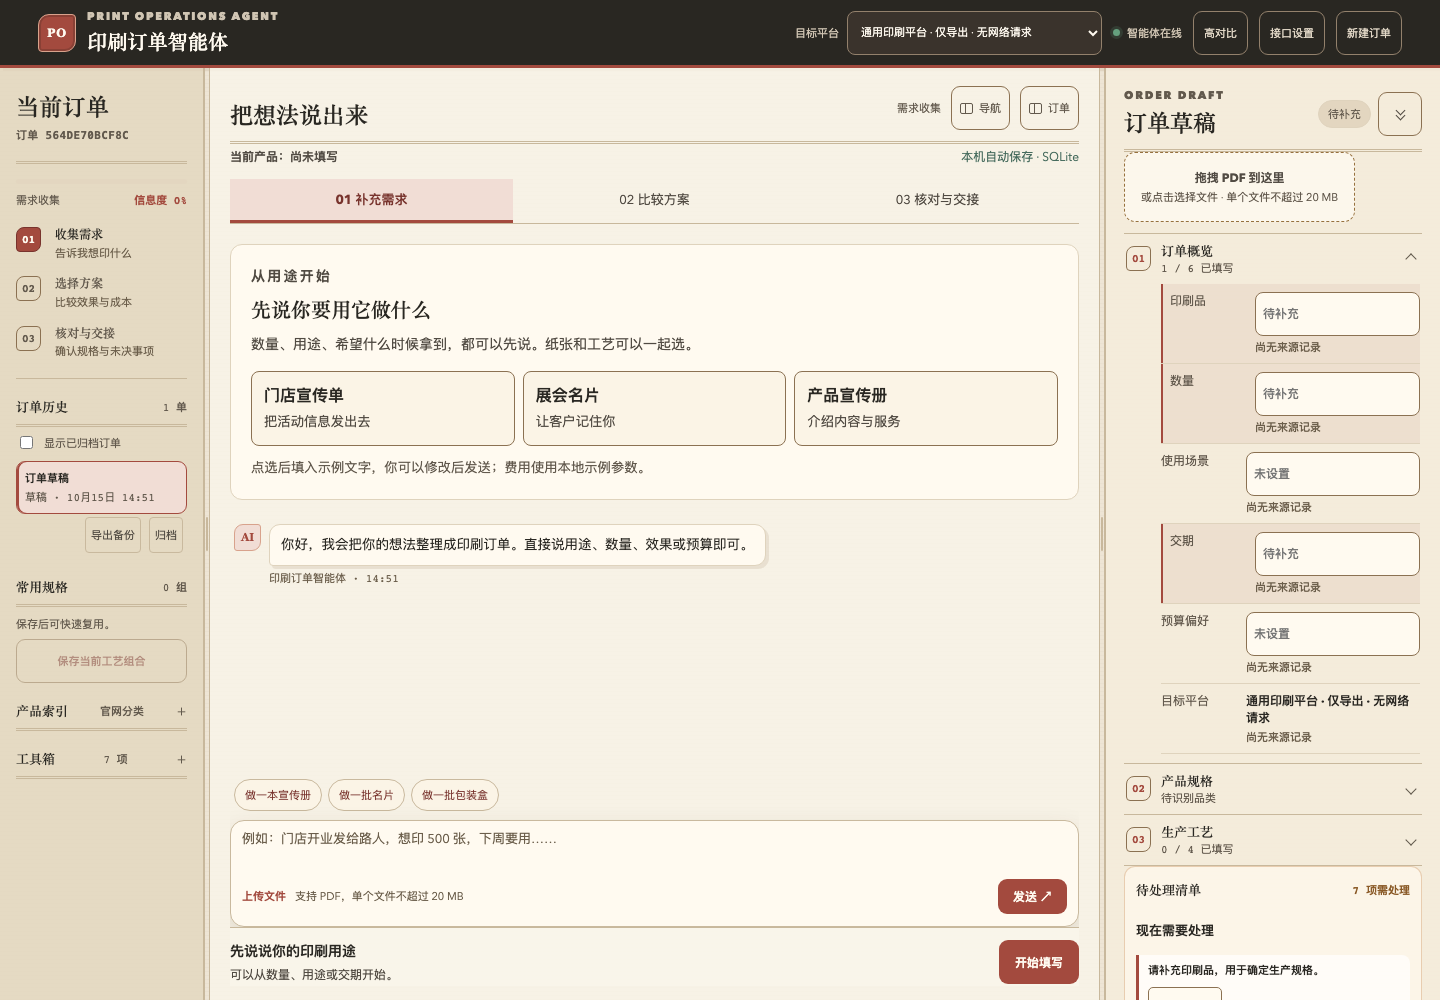
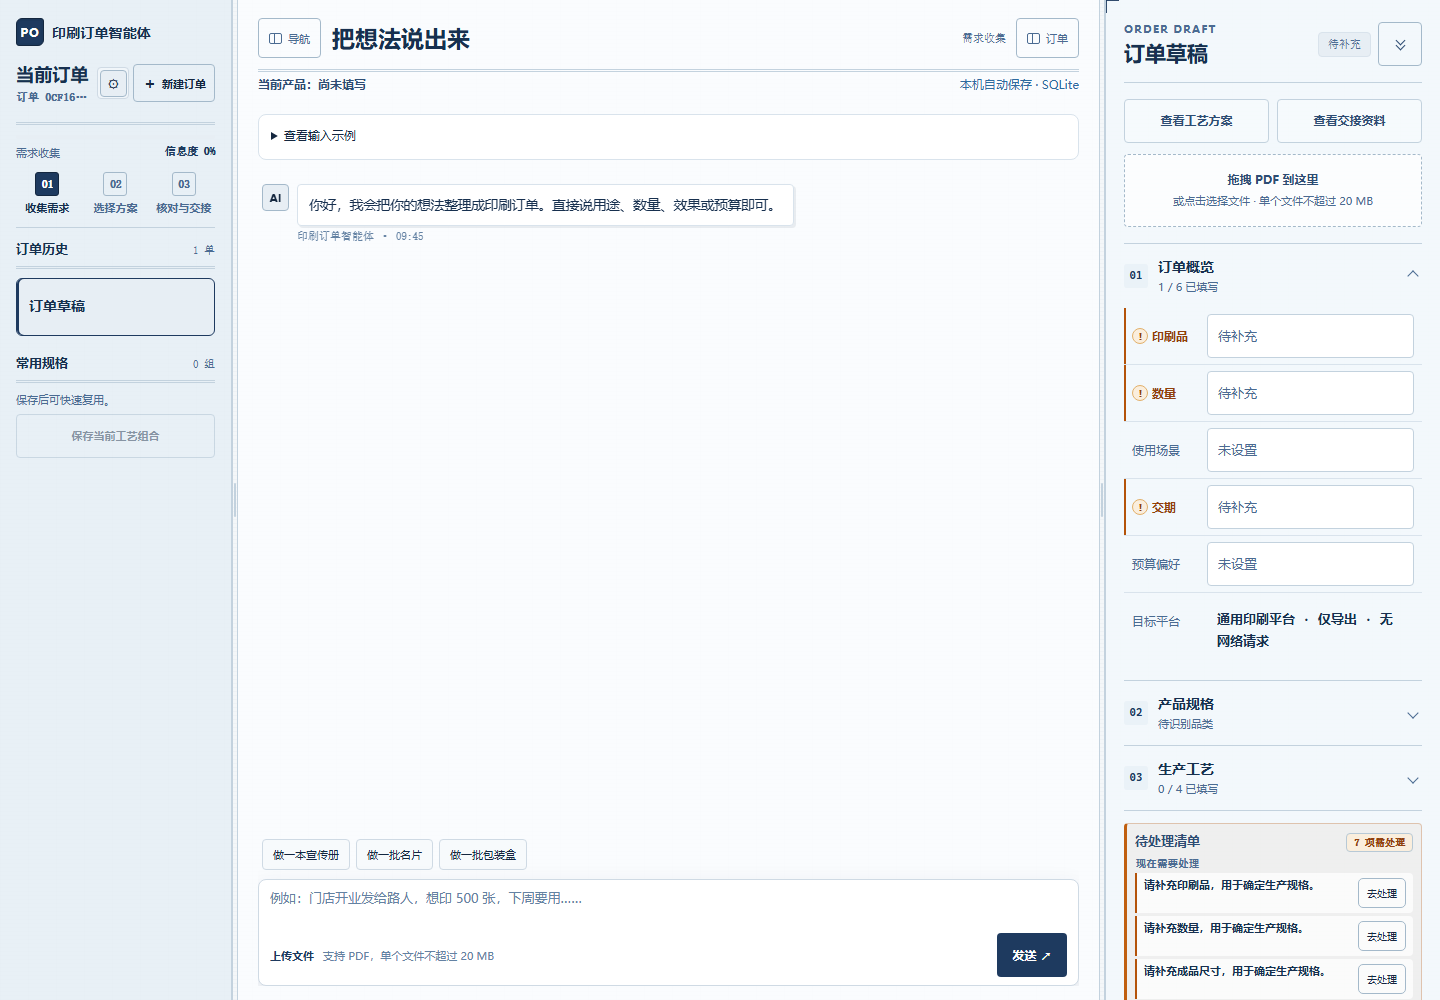
docs(readme): re-shoot screenshots in the NewUI blueprint theme

diff --git a/CHANGELOG.md b/CHANGELOG.md
@@ -6,6 +6,7 @@
 
 - **令牌层整体换装**：`styles.css` 色彩令牌从"暖纸铅印"迁移为"蓝晒制版"体系——纸面 `#f4f7f9`、普鲁士蓝 `#1e3a5f`、琥珀信号 `#b45309`，语义拆分为"琥珀=信号、锈红=危险、普蓝=品牌强调"；新增 `--accent/-deep/-pale` 与 `--font-mono`（含中文回退）令牌，主按钮、用户气泡、步骤、选项选中态、页签统一迁移；高对比度主题同步重标定。
 - **组件与排版精修**：字段值、估价、字段组序号等数字场景改用等宽字体；订单面板四角加制版裁切标记；品牌字标改普蓝、侧栏默认宽度 192→232（修复侧栏标题截尾）；间距、圆角、焦点环数十处精修。业务逻辑、无障碍设施、`server.py` 静态白名单零改动。
+- **README 配图换装**：`docs/screenshots/` 四张配图（工作台、方案对比、窄视口、首次使用）按新主题同视口重拍（`design/tools/readme-shots.mjs`），README 界面预览说明同步更新，仓库首页第一眼即新视觉。
 - **过程与验收**：三方向对比页（`design/candidates/`，含改造前基线截图）经用户选定 B 方向落地；独立视觉评审一轮 11 项（采纳 7、驳回 2、范围外 2，取舍理由见 `design/handoff.md`）；冒烟 13/13、journey 34/34 通过，基线与终稿截图存 `design/baseline/`、`design/after/`。发布门槛未闭合，候选口径不变。
 
 ## Unreleased - 2026-10-24（对话路由声明式预算）

diff --git a/README.en.md b/README.en.md
@@ -104,7 +104,7 @@ The local confirmation note is `仅核对本地交接内容；文件待交付，
 
 ## Interface previews
 
-These are historical Chromium screenshots from the **2026-10-15 uncommitted development workspace on the 1.2.0 candidate baseline**, using synthetic demonstration orders; the current UI-position tuning is represented by the live page and browser suites. The stages are intake, comparison, and review/handoff. The 390px image is a desktop narrow viewport, not real mobile/touch acceptance.
+These are Chromium screenshots from the **2026-10-25 NewUI branch (blueprint drafting visual language) on the 1.3.0.1 candidate baseline**, using synthetic demonstration orders; the current UI-position tuning is represented by the live page and browser suites. The stages are intake, comparison, and review/handoff. The 390px image is a desktop narrow viewport, not real mobile/touch acceptance.
 
 | Option comparison | 390px narrow viewport |
 | --- | --- |

diff --git a/README.md b/README.md
@@ -104,7 +104,7 @@ Windows 可在项目目录双击 `start_windows.bat`。服务启动后打开 [ht
 
 ## 界面预览
 
-以下为 **2026-10-15、1.2.0 候选基线未发布工作区**的历史 Chromium 截图，订单为人工合成展示数据；当前 UI 位置微调以实际页面和浏览器专项结果为准。390px 图片只验证桌面窄视口，不证明真实手机/触控适配。三阶段为“补充需求 → 比较方案 → 核对与交接”。
+以下为 **2026-10-25、1.3.0.1 NewUI 分支（蓝晒制版视觉语言）**的 Chromium 截图，订单为人工合成展示数据；当前 UI 位置微调以实际页面和浏览器专项结果为准。390px 图片只验证桌面窄视口，不证明真实手机/触控适配。三阶段为”补充需求 → 比较方案 → 核对与交接”。
 
 | 方案对比 | 390px 窄视口预览 |
 | --- | --- |
